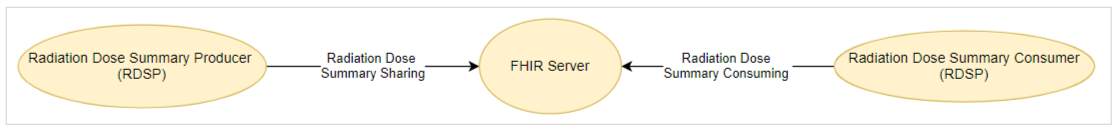
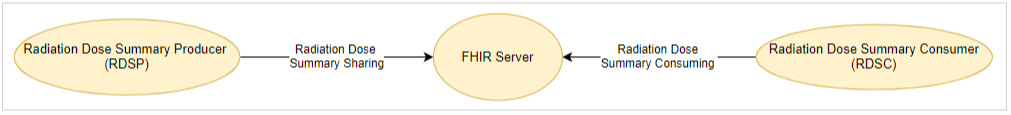
fix typos

diff --git a/input/pagecontent/background.md b/input/pagecontent/background.md
@@ -12,7 +12,7 @@ and describes the use cases supported by this implementation guide.
 
 ### Problematic
 
-The IHE Dose Reporter actor from the IHE REM profile gather Radiation information and dose reports from modalities. However, there is no standardization of the exposure of the gathered data to third parties in light format/API. 
+The IHE Dose Reporter actor from the IHE REM profile gathers Radiation information and dose reports from modalities. However, there is no standardization of the exposure of the gathered data to third parties in a light API based format. 
 
 ![Problematic](./problematic.png){: width="800px"}
 
@@ -20,13 +20,13 @@ The IHE Dose Reporter actor from the IHE REM profile gather Radiation informatio
 
  Dose Management systems need to share information related to the exam to multiple third parties :
 
-* Mobile Applications: like patients related mobile application, where a patient may want to centralize the report of doses injected to him
-* RIS/EHR : many RIS/EHR systems does not have capabilities to read DICOM SR documents and prefer to contact the hospital dose registry in order to gather a summary of the dose report; and in order to include the summary under the final imaging report.
-* Third backend systems: some third backend application may want to gather a summary of the exam’s dose for some proprietary use; gathering the complete RDSR is useless for most of the non Dose Management systems
+* Mobile Applications: like patients related mobile applications, where a patient may want to centralize the report of doses injected to him
+* RIS/EHR : many RIS/EHR systems do not have capabilities to read DICOM SR documents and prefer to contact the hospital dose management system in order to gather a summary of the dose report; and in order to include the radiation summary under the final imaging report.
+* Third backend systems: some third backend applications may want to gather a summary of the exam’s radiations for some proprietary usage; gathering the complete RDSR is useless for most of the non Dose Management systems.
 
-The RDSRs have a complete and a strong structure for sharing the dose information from the modalities to the Dose Consumer/Reporter actors, and also between the Dose Reporter and the Dose Registry systems. However, most of third party application have a very light needs for the Dose report. For example, RIS systems in France needs only for CT Dose Length Product Total from the CT RDSR, in order to fit local regulations. 
+The RDSRs have a complete and a strong structure for sharing the dose information from the modalities to the Dose Consumer/Reporter actors, and also between the Dose Reporter and the Dose Registry systems. However, most of third party applications have a very light needs for the Dose report. For example, RIS systems in France need only, for CT exams, the Dose Length Product Total data from the CT RDSR, in order to fit local regulations. 
 
-The emergence of HL7 FHIR simplified the exchange between backend applications and third parties through the exchange of normalized resources. This analysis allows to share minimal dose information through FHIR resources.
+The emergence of HL7 FHIR simplified the exchange between backend applications and third parties through the exchange of normalized resources having stable structures. This analysis allows to share minimal dose information through FHIR resources.
 
 <a name="scope"></a>
 
@@ -58,29 +58,29 @@ Three use cases were identified.
 
 <br clear="all" />
 
-* The Patient perform an irradiating exam within a modality.
-* The modality share the dose report to the Dose Management System, which may implement the IHE REM Dose Reporter actor. This dose information sharing can follow the REM profile schema. 
+* The Patient performs an irradiating exam within a modality.
+* The modality shares the dose report to the Dose Management System, which may implement the IHE REM Dose Reporter actor. This dose information sharing can follow the REM profile schema. 
 * After analyzing the exam images, the radiologist sends its notes to the Radiology Information System (RIS).
-* In order to construct the final imaging report, the RIS needs to gather a minimal summary of the dose received by the patient. The RIS send a query to the Dose Registry and get minimal dose information report.
-* The response is then integrated to the final report, which can be a CDA report following the DICOM Imaging report specification in PS3.20.
+* In order to construct the final imaging report, the RIS needs to gather a summary of the radiation received by the patient. The RIS send a query to the Dose management system and get minimal dose information report.
+* The minimal dose information is then integrated to the final report, which can be a CDA report following the DICOM Imaging report specification in PS3.20.
 * The final report is shared with the hospital EHR or with the regional/national radiology report repository, through IHE XDS-I.b for example.
 
 This use case is very common within RIS systems not supporting dose management modules. In fact, gathering of dose information from modalities can be very complex:
 
 * It is based on multiple sources of data: RDSR, MPPS, SC & OCR, and DICOM images header.
-* The reporting of the dose information by the modalities may contains misinterpretations and errors
+* The reporting of the dose information by the modalities may contain misinterpretations and errors
 
-It is the role of the Dose management system to provide the RIS with the right information regarding the dose administered to the patients. Reporting the minimal dose information inside the final imaging report is recommended by many stakeholders and organizations, and sometimes it is a regulation. For example, in France there are the Order of 22 September 2006 relating to the radiation information to be included in an act report using ionizing radiation, from the French Minister of Health and Solidarity, and describing some dose information that need to be present in the final report.
+It is the role of the Dose management system to provide the RIS with the right information regarding the dose administered to the patients. Reporting the minimal dose information inside the final imaging report is recommended by many stakeholders and organizations, and sometimes it is a regulation. For example, in France there are the Order of 22 September 2006 relating to the radiation information to be included in an act report using ionizing radiation, from the French Minister of Health and Solidarity, and describing some dose information that needs to be present in the final report.
 
 The same kind of regulations exists in California in the US about the CT exams, which is the Senate Bill No. 1237. 
 
 #### Use case 2: Mobile applications access
 
-The exposure of the Dose Summary as FHIR resources open the doors to the mobile applications to gather the dose information from the Dose management systems, or from the EMR if the Dose Summary is propagated to the EMR. Many applications may benefit from this additional patient data in order to add tracking of the patient dose information. Some patient facing applications can track the dose summary through multiple facilities and then concentrate the dose data. Other practitioner mobile applications can benefit from the Dose Summary data in order to collect more data for practitioner, or to improve their Clinical Decision Support (CDS) component.
+The exposure of the Dose Summary as FHIR resources opens the doors to the mobile applications to gather the dose information from the Dose management systems, or from the EMR if the Dose Summary is propagated to the EMR. Many applications may benefit from this additional patient data in order to add tracking of the patient dose information. Some patient facing applications can track the dose summary through multiple facilities. Other practitioner mobile applications can benefit from the Dose Summary data in order to collect more data for practitioner, or to improve their Clinical Decision Support (CDS) component.
 
 #### Use case 3: Business Intelligence
 
-The exposure of the Dose Summary as a FHIR resources is beneficial for Business Intelligence application exposing metrics on dose data. In fact, multiple metrics can be normalized within a FHIR server collecting the Dose Summary resources, like:
+The exposure of the Dose Summary as a FHIR resources is beneficial for Business Intelligence applications exposing metrics on dose data. In fact, multiple metrics can be normalized within a FHIR server collecting the Dose Summary resources, like:
 
 * Comparison of average of Dose between modalities
 * Comparison of average of Dose between facilities/hospital
@@ -93,7 +93,7 @@ The exposure of the Dose Summary as a FHIR resources is beneficial for Business 
 ### Minimal Radiation Information
 #### Identification
 
-In this paragraph we analyzed the mapping between the identified minimal dose information and some specifications on dose information reporting coming from multiple stakeholders:
+In this paragraph, we analyze the mapping between the identified minimal dose information and some specifications on dose information reporting coming from multiple stakeholders:
 
 * [DICOM PS3.20: Imaging Reports using HL7 Clinical Document Architecture](http://dicom.nema.org/medical/dicom/current/output/html/part20.html){:target="_blank"}
 * [DICOM PS3.16: Content Mapping Resource](http://dicom.nema.org/medical/dicom/current/output/chtml/part16/PS3.16.html){:target="_blank"}
@@ -103,7 +103,7 @@ In this paragraph we analyzed the mapping between the identified minimal dose in
     * [TID 2008 - Radiation Exposure and Protection Information](http://dicom.nema.org/medical/dicom/current/output/chtml/part16/chapter_A.html#sect_TID_2008){:target="_blank"}
 * France guidelines
     * French Society of Radiology - SFR, [Practical Guide for Interventional Radiology](http://gri.radiologie.fr/){:target="_blank"} (Guideline - 2013)
-    * High Authority of Health - HAUS, [Patient radiation protection and analysis of CPD practices and certification of healthcare establishments](https://www.has-sante.fr/upload/docs/application/pdf/2013-07/radioprotection_du_patient_et_analyse_des_pratiques_dpc_et_certification_des_etablissements_de_sante_format2clics.pdf){:target="_blank"} (Guideline - 2012)
+    * High Authority of Health - HAS, [Patient radiation protection and analysis of CPD practices and certification of healthcare establishments](https://www.has-sante.fr/upload/docs/application/pdf/2013-07/radioprotection_du_patient_et_analyse_des_pratiques_dpc_et_certification_des_etablissements_de_sante_format2clics.pdf){:target="_blank"} (Guideline - 2012)
     * [Presentation of the main radiation protection regulatory provisions applicable in medical and dental radiology](https://www.cd2-conseils.com/wp-content/uploads/2016/11/rp_asn_presentation-principales-dispositions-reglementaires_2016.pdf){:target="_blank"} (Guideline: 2016)
     * French Minister of Health and Solidarity, [Order of 22 September 2006 relating to the radiation information to be included in an act report using ionizing radiation](https://www.legifrance.gouv.fr/eli/arrete/2006/9/22/SANY0623888A/jo/texte){:target="_blank"}, (Order - 2006)
 * Finnish Imaging Report specification, [KanTa Imaging CDA R2 document structures](http://www.hl7.fi/hl7-rajapintakartta/kanta-%E2%80%93-kuvantamisen-cda-r2-rakenne/){:target="_blank"} (2013)
@@ -122,7 +122,7 @@ The analysis of the different specifications allowed to obtain the following cov
 
 #### Concepts mapping
 
-The identified minimal dose information that should be collected by the dose management system and shared with third parties application, are divided into contextual information data and dose measurements data.
+The identified minimal dose information that should be collected by the dose management system and shared with third parties applications are divided into contextual information data and dose measurements data.
 
 Contextual Information data:
 
@@ -161,11 +161,11 @@ Dose measurements data:
 
 **Remarks**:
 * We highlighted the "Dose (RP) Total" and not the "Entrance Exposure at RP", as the latter one is related to the irradiation event level, and not the procedure level. Even if the PS3.20 is referencing the Entrance Exposure at RP, the IEC 61910-1 is referencing the Dose (RP) Total in the Basic Dose Documentation conformance.
-* For NM, most of the minimal dose information related to procedure are described in the irradiation event level of the RRDSR structure. However, as there is only one irradiation event per RRDSR, we considered that these minimal dose information are related to the procedure level. However, this imply that for the same NM imaging procedure, multiple Radiation Dose Summary can be reported. This should not be a problem, as in this case, the Radiation Dose Summary is related to the administration act, more than the procedure act.
-* The irradiation Issued Date has different signification, based on the targeted procedure type; in CT, it is the start date of the irradiation act, in XA/RF/MG, it is the Series Date Time, and in NM, it is the administration date time.
+* For NM, most of the minimal dose information related to procedure are described in the irradiation event level of the RRDSR structure. However, as there is only one irradiation event per RRDSR, we considered that these minimal dose information are related to the procedure level. However, this implies that for the same NM imaging procedure, multiple Radiation Dose Summaries can be reported. This should not be a problem, as in this case the Radiation Dose Summary is related to the administration act, more than the procedure act.
+* The irradiation Issued Date has different significations, based on the targeted procedure type; in CT, it is the start date of the irradiation act, in XA/RF/MG, it is the Series Date Time, and in NM, it is the administration date time.
 * The associated procedure is referenced through the related Imaging Study.
 * The calibration factors are not reported as part of the minimal dose information. The generator of the Radiation Dose Summary resources shall take in consideration these calibration factors.
-* Based on the analyzes performed, there is no minimal dose information related to the level Irradiation Event, and part of the modalities XA/RF/MG, considered as important to be reported. 
+* Based on the analyzes performed, there is no minimal dose information related to the level Irradiation Event and part of the modalities XA/RF/MG. 
 
 <a name="glossary"></a>
 
@@ -174,13 +174,16 @@ Dose measurements data:
 The following terms and initialisms/acronyms are used within the Radiation Dose Summary IG:
 
 |Term|Definition|
+|-----|-----------------|
+|ATNA| Audit Trail and Node Authentication |
+|CDA| Clinical Document Architecture |
 |CDS| Clinical Decision Support |
 |CT| Computed Tomography |
 |DICOM| Digital Imaging and Communications in Medicine |
 |EHR| Electronic Health Record |
-|EMR| Electronic medical record |
+|EMR| Electronic Medical Record |
 |FHIR| Fast Healthcare Interoperability Resources |
-|HAUS| French High Authority of Health |
+|HAS| French High Authority of Health |
 |HL7| Health Level Seven|
 |IG| Implementation Guide |
 |IHE| Integrating the Healthcare Enterprise |
@@ -189,10 +192,11 @@ The following terms and initialisms/acronyms are used within the Radiation Dose 
 |MPPS| Modality Performed Procedure Step |
 |NM| Nuclear Medicine |
 |OCR| Optical Character Recognition |
-|REM| Radiation Exposure Monitoring|
 |RDSC| Radiation Dose Summary Consumer |
 |RDSP| Radiation Dose Summary Producer |
 |RDSR| Radiation Dose Structured Report |
+|REM| Radiation Exposure Monitoring|
+|REM-NM| Radiation Exposure Monitoring for Nuclear Medicine |
 |RF| Radio Fluoroscopy |
 |RIS| Radiology Information System |
 |RRDSR| Radiopharmaceutical Radiation Dose Structured Report |
@@ -200,7 +204,10 @@ The following terms and initialisms/acronyms are used within the Radiation Dose 
 |SR| Structured Report |
 |SSDE| Size Specific Dose Estimation |
 |TID| Template ID |
+|TLS| Transport Layer Security |
+|URL| Uniform Resource Locator |
 |XA| X-Ray Angiography |
+|XDS-I.b| Cross-enterprise Document Sharing for Imaging |
 {:.table-striped .table-bordered}
 
 <a name="references"></a>
@@ -214,7 +221,7 @@ The following terms and initialisms/acronyms are used within the Radiation Dose 
 5. DICOM, [Radiopharmaceutical Radiation Dose SR IOD Templates](http://dicom.nema.org/medical/dicom/current/output/chtml/part16/sect_RadiopharmaceuticalRadiationDoseSRIODTemplates.html){:target="_blank"}
 6. DICOM, [TID 2008\. Radiation Exposure and Protection Information](http://dicom.nema.org/medical/dicom/current/output/chtml/part16/chapter_A.html#sect_TID_2008){:target="_blank"}
 7. French Society of Radiology - SFR,  [Practical Guide for Interventional Radiology](http://gri.radiologie.fr/){:target="_blank"}  (Guideline - 2013)
-8. French High Authority of Health - HAUS,  [Patient radiation protection and analysis of CPD practices and certification of healthcare establishments](https://www.has-sante.fr/upload/docs/application/pdf/2013-07/radioprotection_du_patient_et_analyse_des_pratiques_dpc_et_certification_des_etablissements_de_sante_format2clics.pdf){:target="_blank"}  (Guideline - 2012)
+8. French High Authority of Health - HAS,  [Patient radiation protection and analysis of CPD practices and certification of healthcare establishments](https://www.has-sante.fr/upload/docs/application/pdf/2013-07/radioprotection_du_patient_et_analyse_des_pratiques_dpc_et_certification_des_etablissements_de_sante_format2clics.pdf){:target="_blank"}  (Guideline - 2012)
 9. French nuclear safety authority, [Presentation of the main radiation protection regulatory provisions applicable in medical and dental radiology](https://www.cd2-conseils.com/wp-content/uploads/2016/11/rp_asn_presentation-principales-dispositions-reglementaires_2016.pdf){:target="_blank"}  (Guideline: 2016)
 10. French Minister of Health and Solidarity,  [Order of 22 September 2006 relating to the radiation information to be included in an act report using ionizing radiation](https://www.legifrance.gouv.fr/eli/arrete/2006/9/22/SANY0623888A/jo/texte){:target="_blank"}, (Order - 2006)
 11. Finnish Imaging Report specification,  [KanTa Imaging CDA R2 document structures](http://www.hl7.fi/hl7-rajapintakartta/kanta-%E2%80%93-kuvantamisen-cda-r2-rakenne/){:target="_blank"}  (2013)
@@ -225,3 +232,5 @@ The following terms and initialisms/acronyms are used within the Radiation Dose 
 16. [Radiologist Compliance With California CT Dose Reporting Requirements: A Single-Center Review of Pediatric Chest CT](https://www.ajronline.org/doi/pdf/10.2214/AJR.14.13693){:target="_blank"}
 17. University of California Dose Optimization and Standardization Endeavor (UC-DOSE). [Recommendations for compliance with California Senate Bill 1237 and related pending legislation](http://files.ctctcdn.com/da9de144201/b78c37fa-a36b-4888-a418-fa21a314393e.pdf){:target="_blank"}
 18. IEC, [IEC 61910-1:2014 - Medical electrical equipment - Radiation dose documentation - Part 1: Radiation dose structured reports for radiography and radioscopy](https://webstore.iec.ch/publication/6091){:target="_blank"}
+19. IHE Radiology (RAD), [Technical Framework Volume 1, Cross-enterprise Document Sharing for Imaging (XDS-I.b)](https://www.ihe.net/uploadedFiles/Documents/Radiology/IHE_RAD_TF_Vol1.pdf){:target="_blank"}
+20. IHE Radiology (RAD), [Technical Framework Volume 1, Radiation Exposure Monitoring (REM)](https://www.ihe.net/uploadedFiles/Documents/Radiology/IHE_RAD_TF_Vol1.pdf){:target="_blank"}

diff --git a/input/pagecontent/archi.md b/input/pagecontent/archi.md
@@ -3,7 +3,7 @@ This chapter describes the different architecture descriptions of the resources,
 1. [Profiles & Extensions](#profiles) - FHIR Profiles and extensions defined in the IG
 2. [Actors](#actors) - Actors participating in the IG
 3. [Terminology](#terminology) - Value Sets defined
-4. [Sercurity Consideration](#sec) - Security aspect to be taken in consideration
+4. [Sercurity Consideration](#sec) - Security aspects to be taken in consideration
 
 <a name="profiles"></a>
 
@@ -11,17 +11,17 @@ This chapter describes the different architecture descriptions of the resources,
 #### Resource Profiles<a name="resources"></a>
 * [Radiation Dose Summary](StructureDefinition-radiation-dose-summary.html) profiles the Observation resource to provide the base for the Radiation Dose Summary reporting.
     * [CT Radiation Dose Summary](StructureDefinition-ct-radiation-dose-summary.html) profiles the Observation resource by extending the Radiation Dose Summary profile with minimal dose information related to CT procedures.
-    * [X-Ray Radiation Dose Summary](StructureDefinition-xray-radiation-dose-summary.html) profiles the Observation resource by extending the Radiation Dose Summary profile with minimal dose information related to X-Ray procedures (XA, RF, MG, etc.)
+    * [X-Ray Radiation Dose Summary](StructureDefinition-xray-radiation-dose-summary.html) profiles the Observation resource by extending the Radiation Dose Summary profile with minimal dose information related to X-Ray procedures (XA, RF, MG, etc.).
     * [Radiopharmaceutical Radiation Dose Summary](StructureDefinition-nm-radiation-dose-summary.html) profiles the Observation resource by extending the Radiation Dose Summary profile with minimal dose information related to nuclear medicine imaging procedures.
 * [Irradiation Event Summary](StructureDefinition-irradiation-event-summary.html) profiles the Observation resource in order to describe minimal dose information related to irradiation events.
     * [CT Irradiation Event Summary](StructureDefinition-ct-irradiation-event-summary.html) profiles the Observation resource by extending Irradiation Event Summary profile, and adding minimal dose information related to CT Irradiation Events.
 * [Radiation Summary Report](StructureDefinition-radiation-summary-report.html) profiles Composition resource and defines a report document describing the irradiation act.
-* [Indication Observation](StructureDefinition-indication-observation.html) profiles Observation resource to provide the indications related to the performed procedure
-* [Pregnancy Status](StructureDefinition-pregnancy-status.html) profiles Observation resource to provide the pregnancy status of the patient
+* [Indication Observation](StructureDefinition-indication-observation.html) profiles Observation resource to provide the indications related to the performed procedure.
+* [Pregnancy Status](StructureDefinition-pregnancy-status.html) profiles Observation resource to provide the pregnancy status of the patient.
 * [Modality Device](StructureDefinition-modality-device.html) profiles Device resource to provide the specificities of a modality as a Device resource.
 
 #### Supporting DataType Profiles <a name="datatypes"></a>
-There is no special supporting DataType Profiles defined by this IG.
+There is no special supporting DataType profiles defined by this IG.
 
 #### Supporting Extensions<a name="extensions"></a>
 There is no special supporting extensions defined by this IG.
@@ -32,15 +32,15 @@ There is no special supporting extensions defined by this IG.
 <br clear="all" />
 
 There are two levels or resources:
-* Radiation Observation resources: these resources allows to describe a performed procedure, as seen from modality perspective. It summarize the radiation report generated by the modality.
-* Radiation Report resources: the resources: these resources reference the radiation observation resources, and enhance the collected information in a general radiation report, with relationship to the patient conditions and the procedure indications.
+* Radiation Observation resources: these resources allow describing a performed radiation act, as seen from modality perspective. They summarize the radiation report generated by the modality.
+* Radiation Report resources: these resources reference the radiation observation resources, and enhance the collected information in a general radiation report, with relationship to the patient conditions and the procedure indications.
 
 A general Dose Summary profile is defined, and extended by three different Profiles:
 * CT Dose Summary Profile 
 * X-Ray Dose Summary Profile
 * NM Dose Summary Profile
 
-A general Irradiation Event profile is defined, and extended by on profile: CT Irradiation Event. Following the analysis of different national and regional recommendation, only a need for CT Irradiation event was found, the details of X-Ray and NM irradiations events were not highlighted as needed during a radiation summary report. Thus, no Profiles related to X-Ray and NM irradiation events were created.
+A general Irradiation Event profile is defined, and extended by on profile: CT Irradiation Event. Following the analysis of different national and regional recommendation, only a need for CT Irradiation event profiling was found, the details of X-Ray and NM irradiations events were not highlighted as needed during a radiation summary report. Thus, no Profiles related to X-Ray and NM irradiation events were created.
 
 
 <a name="actors"></a>
@@ -56,32 +56,33 @@ A list of actors are identified within this IG:
 <br clear="all" />
 
 #### Radiation Dose Summary Producer
-The radiation dose summary producer (RDSP) actor is responsible on the creation of the Radiation Dose Summary observation, and sharing it with the FHIR Server. The RDSP actor shall consider synchronizing with the FHIR server multiple resources, in order to avoid duplicating resources in the FHIR server. For example, the RDSP actor shall check if the patient already exists in the FHIR server, and if so, only a reference to this patient is created, and the POST bundle from the RDSP actor to the FHIR server shall not contain a Patient resource.
+The Radiation Dose Summary Producer (RDSP) actor is responsible on the creation of the Radiation Dose Summary observation, and sharing it with the FHIR Server. The RDSP actor shall consider synchronizing with the FHIR server multiple resources, in order to avoid duplicating resources in the FHIR server. For example, the RDSP actor shall check if the patient already exists in the FHIR server, and if so, only a reference to this patient is created, and the POST bundle from the RDSP actor to the FHIR server shall not contain a Patient resource.
 Generally, this actor can be implemented within a Dose Management System.
 
 #### FHIR Server
 The FHIR Server has two functions:
 1. Provide the diagnostic procedure context to both the Radiation Dose Summary Producer and Consumer actors
 2. Store the Radiation Dose Summary resources and Irradiation Event resources from the sharing performed from the Producer actor
-Thus, the FHIR server can be divided in fact in two actors: one for the contextual resources, and one for the Radiation Dose resources.
+
+Thus, the FHIR server can be divided in fact in two sub-actors: one for the contextual resources, and one for the Radiation Dose resources.
 
 The contextual resources are resources managed by the FHIR server and related to the imaging procedure, and works as a source of truth for these resources:
 1. The Patient resources: the patients having exams.
 2. The Device resources: the modalities participating in the irradiation of the patients.
-3. The Practitioner resources: the irradiating authorizing persons responsible on the exams performed on the patients.
+3. The Practitioner resources: the irradiation authorizing persons responsible on the performed exams.
 4. The ImagingStudy resources: resources describing the performed exams.
 
-When these resources are not present in the FHIR server, the radiation dose summary producer can take the responsibility on alimenting the FHIR server with these resources, by creating them from the RDSRs and images collected from modalities.
+When these resources are not present in the FHIR server, the Radiation Dose Summary Producer can take the responsibility on alimenting the FHIR server with these resources, by creating them from the RDSRs and images collected from modalities.
 
 #### Radiation Dose Summary Consumer
-The radiation dose summary consumer (RDSC) actor is responsible on the interpretation of the Radiation Dose Summary observation. There are many ways to use the Radiation Dose Summary resources, and it depends on the consumer.
-* Some RIS systems can act as consumer actor, in order to enhance the final radiology report with radiation information. 
-* Some Clinical Decision Support consumer tools can use these radiation resources to feed their algorithms
-* Some Clinical Quality Information consumer tools can use these radiation resources to perform analyzes on radiations information, and provide metrics related to patients cohorts, or devices comparison, or limit values calculations, etc.
-* Some consumers may act as a light Dose registry, by collecting the radiation summary information for a patient or a group of patients in a regional or national infrastructure. Such registries can create valuable data for regulations purpose, or for population radiation estimations.
+The Radiation Dose Summary Consumer (RDSC) actor is responsible on the collection and interpretation of the Radiation Dose Summary observation. There are many ways to use the Radiation Dose Summary resources, and it depends on the consumer.
+* RIS systems can act as consumer actor, in order to enhance the final radiology report with radiation information. 
+* Clinical Decision Support tools can use these radiation resources to feed their algorithms.
+* Clinical Quality Information tools can use these radiation resources to perform analyzes on radiations information, and provide metrics related to patients cohorts, or devices comparison, or limit values calculations, etc.
+* Other consumers may act as a light Dose registry, by collecting the radiation summary information for a patient or a group of patients in a regional or national infrastructure. Such registries can create valuable data for regulations purpose, or for population radiation estimations.
 
 #### Actors grouping
-The FHIR Server can be grouped with the Radiation Dose Summary Producer actor within the Dose Management System. Thus, the Dose Management System is managing all the resources and references between resources. Another possible grouping is between the FHIR Server and the Radiation Dose Summary Consumer actor. This can happen for example within EMR systems or RIS and EHR systems. In this case, the source of truth for contextual resources are independent from the Dose Management System.
+The FHIR Server can be grouped with the Radiation Dose Summary Producer actor within the Dose Management System. Thus, the Dose Management System is managing all the resources and references between resources. Another possible grouping is between the FHIR Server and the Radiation Dose Summary Consumer actor. This can happen for example within EMR systems or RIS/EHR systems. In this case, the source of truth for contextual resources are independent from the Dose Management System.
 
 #### Actors communication
 
@@ -91,8 +92,8 @@ The following sequence diagram describes the typical workflow between the RDSP a
 
 <br clear="all" />
 
-During this workflow, a patient arrive to the hospital and perform an exam within an irradiating modality. The detailed radiation information are shared with the Radiation Dose Summary Producer actor, which may generally be a Dose Management System. 
-During the process of creating the Radiation Dose Summary resources, the RDSP actor perform a list of query to the FHIR server, in order to collect the right IDs to be referred in the newly created resources. The RDSP shall for instance collect the corresponding IDs for the Patient, the Practitioner, the Modality, and the ImagingStudy resources. Most of these resources can be identified from the DICOM RDSR shared from the modality. Some unique identifiers can be used to query the FHIR server. Here is a mapping between the FHIR resources and the identifiers from DICOM:
+During this workflow, a patient arrives to the hospital and performs an exam within an irradiating modality, or including a nuclear medicine administration. The detailed radiation information is shared with the Radiation Dose Summary Producer actor, which may generally be a Dose Management System. 
+During the process of creating the Radiation Dose Summary resources, the RDSP actor performs a list of query to the FHIR server, in order to collect the right IDs to be referred in the newly created resources. For instance, the RDSP actor shall collect the corresponding IDs for the Patient, the Practitioner, the Modality, and the ImagingStudy resources. Most of these resources can be identified from the DICOM RDSR shared from the modality. Some unique identifiers within the RDSR can be used to query the FHIR server. Here is a mapping between the FHIR resources and the identifiers from DICOM:
 
 | FHIR Resource        |      Identifier from DICOM       |
 |--------------------------|-----------------------|
@@ -104,7 +105,7 @@ During the process of creating the Radiation Dose Summary resources, the RDSP ac
 
 The IDs collected are used to construct the Radiation Dose Summary resources and their related Irradiation Event resources. Then, these resources are shared with the FHIR server through a POST of a bundle. The bundle may contain temporary resources related to Patient, ImagingStudy, and other contextual resources, if the FHIR server has no reference of them.
 
-Once the resources are shared with the FHIR server, the Radiation Dose Summary Consumer can search and retrieve the resources from the FHIR server and use them for their own purpose. The RDSC actor can optionally enrich the FHIR server resources by posting a Composition document as profiled by the Radiation Summary Report.
+Once the resources are shared with the FHIR server, the Radiation Dose Summary Consumer can search and retrieve the resources from the FHIR server and use them for their own purposes. The RDSC actor can optionally enrich the FHIR server resources by posting a Composition document as profiled by the Radiation Summary Report profile.
 
 
 <a name="terminology"></a>

diff --git a/input/pagecontent/testing.md b/input/pagecontent/testing.md
@@ -26,16 +26,16 @@ This chapter describes testing data and testing plan, and provide some samples f
 
 ##### Steps
 
-* The RDSP actor gather an RDSR from an irradiating modality (a CT RDSR, an X-Ray RDSR or an RRDSR)
-* The RDSP actor collect the identifiers of the Patient, the Device, the Practitioner, and the ImagingStudy from the FHIR Server
-    * If some of the resources are not found, the RDSP actor construct them in order to share them with the FHIR Server
-* The RDSP construct the Radiation Dose Summary resource and POST it with the FHIR server
-* The RDSC actor query the FHIR server and collect radiation summary information
-* Optionally, the RDSC actor enhance the FHIR server with the Radiation Summary Report.
+* The RDSP actor gathers an RDSR from an irradiating modality (a CT RDSR, an X-Ray RDSR or an RRDSR)
+* The RDSP actor collects the identifiers of the Patient, the Device, the Practitioner, and the ImagingStudy from the FHIR Server
+    * If some of the resources are not found, the RDSP actor constructs them in order to share them with the FHIR Server
+* The RDSP actor constructs the Radiation Dose Summary resource and POST it to the FHIR server
+* The RDSC actor queries the FHIR server and collects radiation summary information
+* Optionally, the RDSC actor enhances the FHIR server with the Radiation Summary Report.
 
 ##### Validation
 
-* The generated Radiation Summary resources shall pass the validation tools execution, using the FHIR [validator](https://fhir.github.io/latest-ig-validator/org.hl7.fhir.validator.jar){:target="_blank"}
+* The generated Radiation Summary resources shall pass the validation tool testing, using the FHIR [validator](https://fhir.github.io/latest-ig-validator/org.hl7.fhir.validator.jar){:target="_blank"}
 
 <a name="testdata"></a>
 
@@ -58,7 +58,7 @@ Here are some examples of queries and searching use cases that can be performed 
 | Search all the Dose summaries within the FHIR Server | GET /fhir/Observation?code=73569-6 |
 | View specific Dose Summary | GET /fhir/Observation/19 |
 | Access Device dose summaries | GET /fhir/Observation?code=73569-6&device=22  |
-| Search Dose Summary of a patient through the last year | GET /fhir/Observation?code=73569-6&patient=8&date=gt2019-01-01 |
+| Search Dose Summary of a patient through the last year | GET /fhir/Observation?code=73569-6&patient=8&date=gt2020-01-01 |
 | Search Dose Summary related to the study | GET /fhir/Observation?code=73569-6&part-of=1232 |
 {:.table-striped .table-bordered}
 
@@ -114,6 +114,6 @@ This implementation guide is web-based and is intended to be browsed online. How
 *   This [full IG](full-ig.zip)
 *   The [resource definitions](definitions.json.zip) from this IG for use with the FHIR validator (see below)
 *   The full FHIR [R4](http://hl7.org/fhir/R4/fhir-spec.zip){:target="_blank"} specifications
-*   A [validator](https://fhir.github.io/latest-ig-validator/org.hl7.fhir.validator.jar){:target="_blank"} that can be used to check FHIR resource instance validity
+*   A [validator](https://fhir.github.io/latest-ig-validator/org.hl7.fhir.validator.jar){:target="_blank"} that can be used to check FHIR resource instance validity.
 
 

diff --git a/input/pagecontent/index.md b/input/pagecontent/index.md
@@ -9,7 +9,7 @@ This IG is organized into three main sections:
     * [Scope](background.html#scope) - Scope of the IG
     * [Use cases](background.html#usecases) - Key use cases covered by the IG
     * [Minimal Radiation Information](background.html#mindose) - Description of data shared through this IG
-    * [Gloassary](background.html#glossary) - Glossary
+    * [Glossary](background.html#glossary) - Glossary
     * [References](background.html#references) - References
 * [Chapter II](archi.html): Architecture & Implementation
     * [Profiles & Extensions](archi.html#profiles) - FHIR Profiles and extensions defined in the IG
